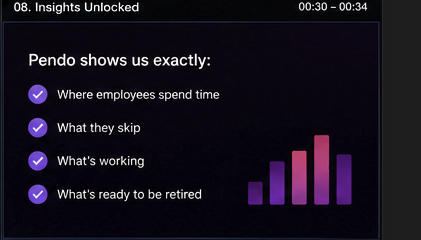
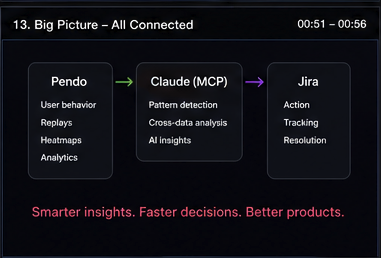
Discover: replace insights screenshot with Pendo→MCP→Jira connected flow

diff --git a/lib/flywheelData.ts b/lib/flywheelData.ts
@@ -182,9 +182,9 @@ export const FLYWHEEL_STEPS: FlywheelStep[] = [
       },
       {
         src: "/assets/discover-insights.png",
-        headline: "Insights unlocked",
-        caption: "Evidence-backed brief, ready to act on. Minutes, not days.",
-        timestamp: "00:34 – 00:40",
+        headline: "Pendo → Claude MCP → Jira",
+        caption: "Behavior signals flow straight into AI analysis and land as actionable tickets. End-to-end, no handoff.",
+        timestamp: "00:51 – 00:56",
       },
     ],
   },